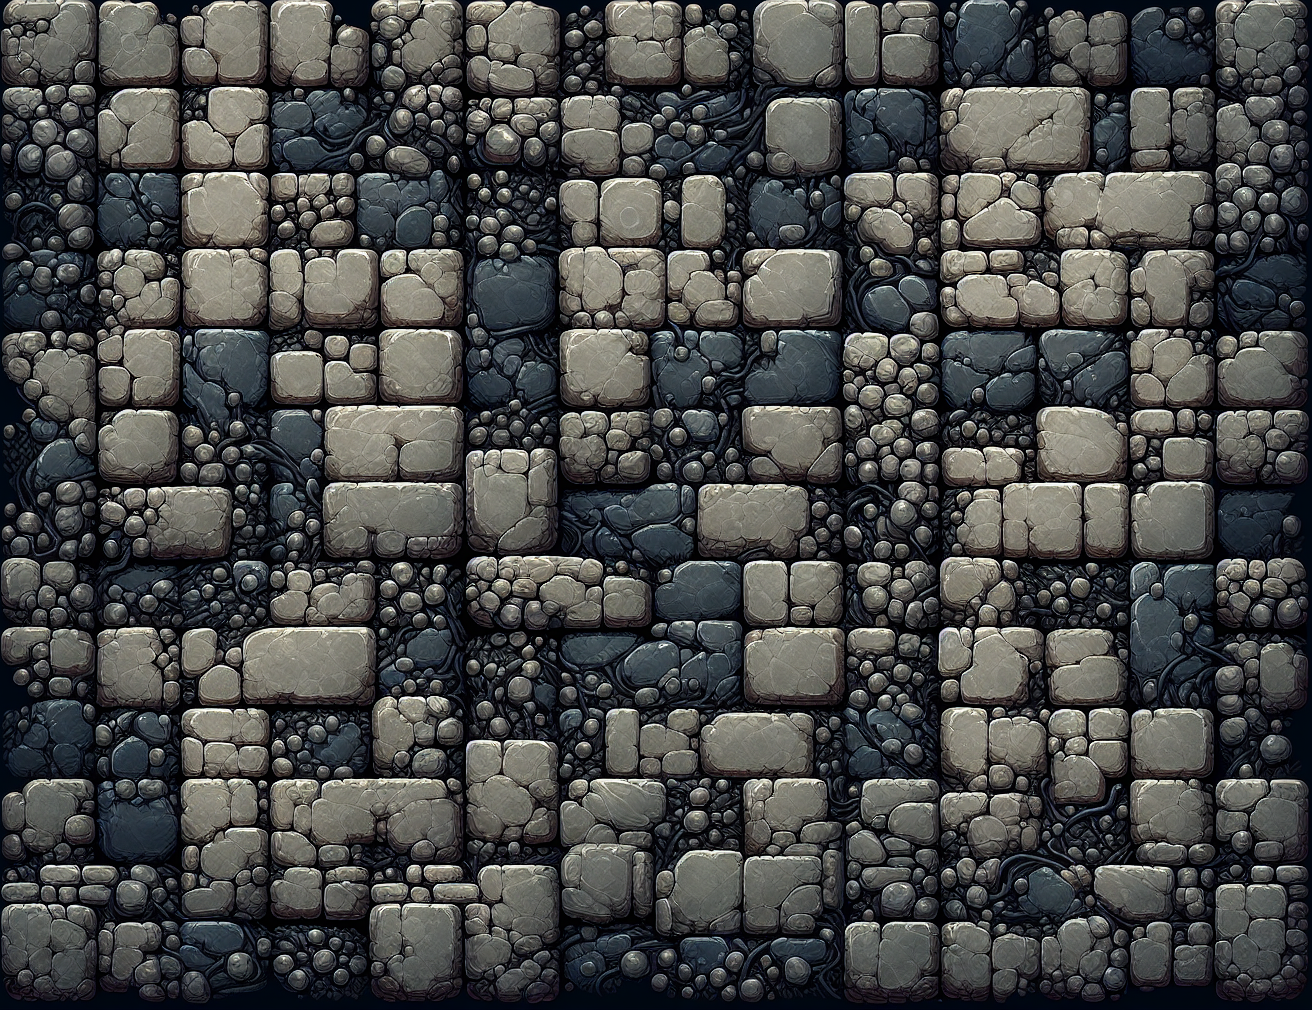
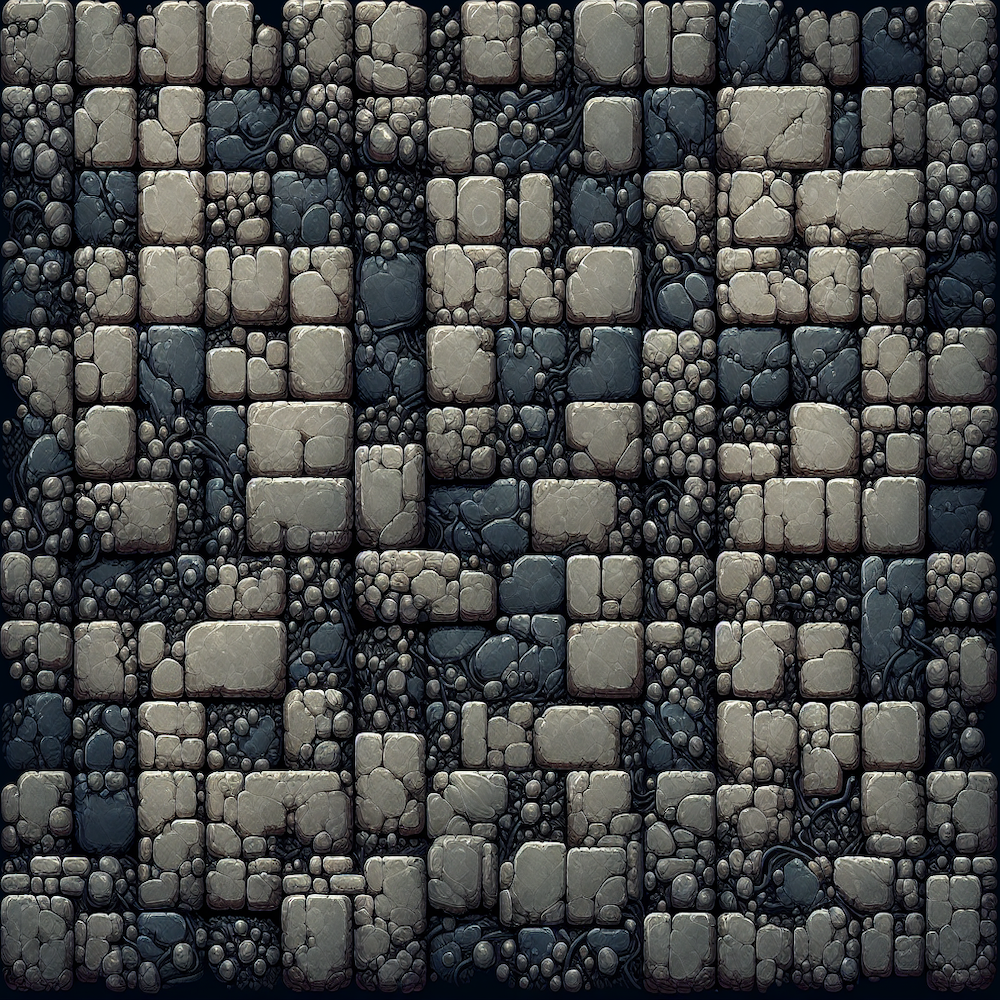
add background tile

diff --git a/python/vampire_survivor_clone/dungeon_survivor.py b/python/vampire_survivor_clone/dungeon_survivor.py
@@ -14,20 +14,35 @@ from pygame.locals import (
     K_q,
 )
 
-pygame.init()
 
 SCREEN_WIDTH = 1000
 SCREEN_HEIGHT = 800
 
-screen = pygame.display.set_mode((SCREEN_WIDTH, SCREEN_HEIGHT))
 
-running = True
+class Game:
+    def __init__(self):
+        pygame.init()
+        self.screen = pygame.display.set_mode((SCREEN_WIDTH, SCREEN_HEIGHT))
+        self.clock = pygame.time.Clock()
 
-while running:
-    for event in pygame.event.get():
-        if event.type == QUIT:
-            running = False
+        self.bg_tile = pygame.image.load("images/background.png")
+        self.tile_size = 1000
 
-    screen.fill((0, 0, 0))
+        # self.player = Player(400, 300)
 
-    pygame.display.flip()
+    def run(self):
+        running = True
+        while running:
+            for event in pygame.event.get():
+                if event.type == QUIT:
+                    running = False
+
+            self.screen.blit(self.bg_tile, (0, 0))
+            pygame.display.flip()
+            self.clock.tick(60)
+
+
+if __name__ == "__main__":
+    game = Game()
+    game.run()
+    pygame.quit()
